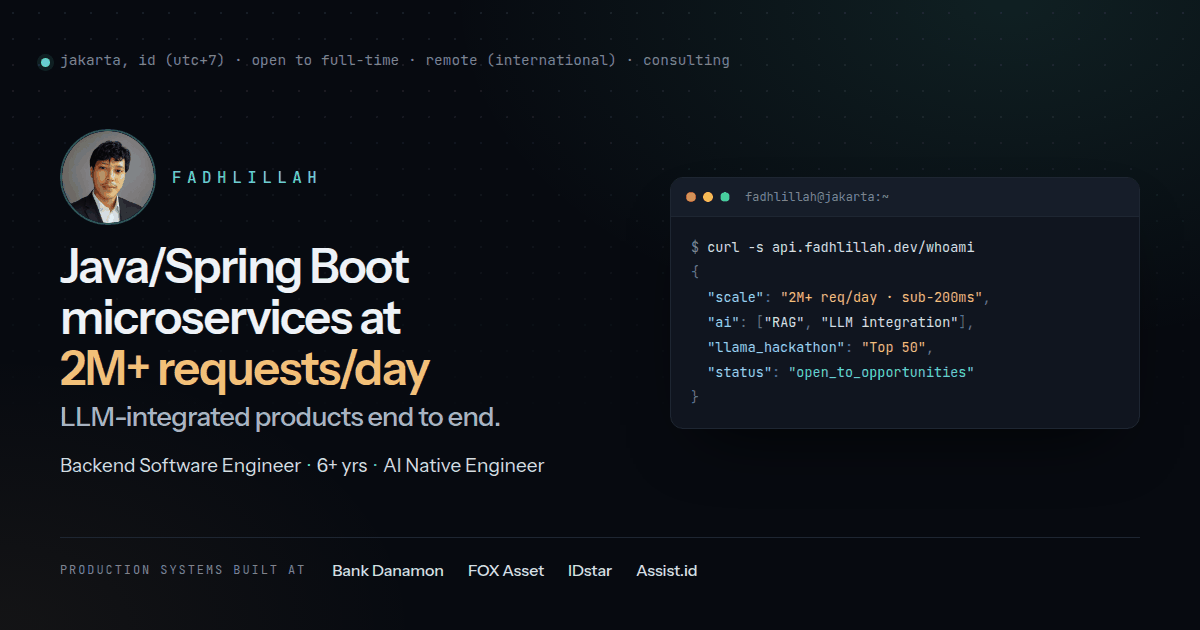
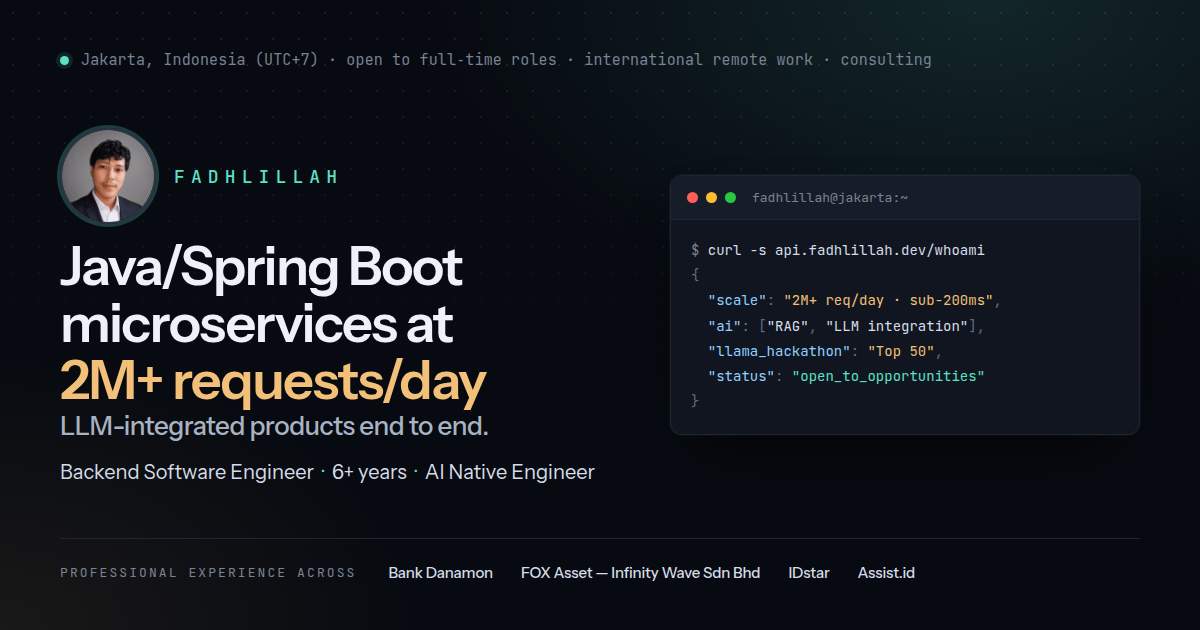
tambah generator kartu Open Graph dan regen og-*.png

diff --git a/scripts/og/cover.html b/scripts/og/cover.html
@@ -1,0 +1,90 @@
+<!doctype html>
+<html lang="en">
+<head>
+<meta charset="utf-8">
+<title>OG cover — home</title>
+<style>
+  /* Rendered at exactly 1200×630 by scripts/og-render.ts. Copy mirrors Hero.svelte verbatim. */
+  @font-face { font-family: "Instrument Sans"; src: url("../../static/assets/fonts/instrument-sans-var.woff2") format("woff2"); font-weight: 400 700; }
+  @font-face { font-family: "JetBrains Mono"; src: url("../../static/assets/fonts/jetbrains-mono-var.woff2") format("woff2"); font-weight: 400 700; }
+
+  :root {
+    --ink-0: #070a10; --ink-2: #10151f; --ink-3: #161d29; --line: #1e2632; --line-2: #2b3648;
+    --head: #eef2f8; --bright: #d5dde8; --text: #a8b3c2; --muted: #788394;
+    --accent: #5ce1c6; --metric: #f2c078; --code-key: #8fd0ff; --code-punct: #5a6d87;
+    --sans: "Instrument Sans", sans-serif; --mono: "JetBrains Mono", monospace;
+  }
+  * { box-sizing: border-box; margin: 0; }
+  html, body { width: 1200px; height: 630px; overflow: hidden; }
+  body {
+    position: relative;
+    font-family: var(--sans);
+    color: var(--text);
+    background:
+      radial-gradient(900px 520px at 82% 0%, rgba(92, 225, 198, 0.13), transparent 62%),
+      radial-gradient(700px 460px at 0% 100%, rgba(242, 192, 120, 0.08), transparent 60%),
+      var(--ink-0);
+    -webkit-font-smoothing: antialiased;
+  }
+  /* dot grid fades out downward so it never sits behind the headline */
+  body::before {
+    content: ""; position: absolute; inset: 0;
+    background-image: radial-gradient(rgba(168, 179, 194, 0.13) 1px, transparent 1px);
+    background-size: 26px 26px;
+    -webkit-mask-image: linear-gradient(to bottom, #000, transparent 72%);
+  }
+  .eyebrow {
+    position: absolute; left: 60px; top: 50px;
+    display: flex; align-items: center; gap: 12px;
+    font-family: var(--mono); font-size: 15px; color: var(--muted); letter-spacing: 0.01em;
+  }
+  .dot { width: 9px; height: 9px; border-radius: 50%; background: var(--accent); box-shadow: 0 0 0 4px rgba(92, 225, 198, 0.12); }
+
+  .who { position: absolute; left: 60px; top: 128px; display: flex; align-items: center; gap: 18px; }
+  .who img { width: 96px; height: 96px; border-radius: 50%; object-fit: cover; border: 2px solid var(--line-2); box-shadow: 0 0 0 3px rgba(92, 225, 198, 0.25); }
+  .name { font-family: var(--mono); font-size: 18px; font-weight: 500; letter-spacing: 0.34em; color: var(--accent); }
+
+  .h1 { position: absolute; left: 60px; top: 238px; font-size: 54px; line-height: 1.06; font-weight: 600; letter-spacing: -0.03em; color: var(--head); }
+  .h1 em { font-style: normal; color: var(--metric); }
+  .sub { position: absolute; left: 60px; top: 410px; font-size: 26px; font-weight: 500; letter-spacing: -0.02em; color: var(--text); }
+  .role { position: absolute; left: 60px; top: 460px; font-size: 20px; color: var(--bright); }
+  .role .sep { color: var(--accent); padding: 0 4px; }
+
+  .term { position: absolute; left: 670px; top: 175px; width: 470px; background: var(--ink-2); border: 1px solid var(--line); border-radius: 12px; overflow: hidden; box-shadow: 0 30px 70px -34px rgba(0, 0, 0, 0.9), 0 0 0 1px rgba(92, 225, 198, 0.06); }
+  .bar { display: flex; align-items: center; gap: 8px; padding: 13px 16px; background: var(--ink-3); border-bottom: 1px solid var(--line); }
+  .bar i { width: 11px; height: 11px; border-radius: 50%; }
+  .bar span { margin-left: 8px; font-family: var(--mono); font-size: 13px; color: var(--muted); }
+  pre { padding: 18px 20px 20px; font-family: var(--mono); font-size: 14px; line-height: 1.8; color: var(--bright); }
+  .tmut { color: var(--muted); } .tk { color: var(--code-key); } .tp { color: var(--code-punct); } .tm { color: var(--metric); } .tc { color: var(--accent); }
+
+  .proof { position: absolute; left: 60px; right: 60px; top: 538px; padding-top: 24px; border-top: 1px solid var(--line); display: flex; align-items: center; gap: 28px; }
+  .proof-label { font-family: var(--mono); font-size: 13px; letter-spacing: 0.16em; text-transform: uppercase; color: var(--muted); margin-right: 4px; }
+  .proof b { font-size: 15px; font-weight: 500; color: var(--bright); letter-spacing: -0.01em; white-space: nowrap; }
+</style>
+</head>
+<body>
+  <p class="eyebrow"><i class="dot"></i>Jakarta, Indonesia (UTC+7) · open to full‑time roles · international remote work · consulting</p>
+
+  <div class="who"><img src="../../static/assets/img/portrait.jpg" alt=""><span class="name">FADHLILLAH</span></div>
+
+  <h1 class="h1">Java/Spring Boot<br>microservices at<br><em>2M+ requests/day</em></h1>
+  <p class="sub">LLM-integrated products end to end.</p>
+  <p class="role">Backend Software Engineer <span class="sep">·</span> 6+ years <span class="sep">·</span> AI Native Engineer</p>
+
+  <div class="term">
+    <div class="bar"><i style="background:#ff5f57"></i><i style="background:#febc2e"></i><i style="background:#28c840"></i><span>fadhlillah@jakarta:~</span></div>
+<pre><span class="tmut">$</span> curl -s api.fadhlillah.dev/whoami
+<span class="tp">{</span>
+  <span class="tk">"scale"</span><span class="tp">:</span> <span class="tm">"2M+ req/day · sub-200ms"</span><span class="tp">,</span>
+  <span class="tk">"ai"</span><span class="tp">:</span> <span class="tp">[</span>"RAG"<span class="tp">,</span> "LLM integration"<span class="tp">],</span>
+  <span class="tk">"llama_hackathon"</span><span class="tp">:</span> <span class="tm">"Top 50"</span><span class="tp">,</span>
+  <span class="tk">"status"</span><span class="tp">:</span> <span class="tc">"open_to_opportunities"</span>
+<span class="tp">}</span></pre>
+  </div>
+
+  <div class="proof">
+    <span class="proof-label">Professional experience across</span>
+    <b>Bank Danamon</b><b>FOX Asset — Infinity Wave Sdn Bhd</b><b>IDstar</b><b>Assist.id</b>
+  </div>
+</body>
+</html>

diff --git a/scripts/og/writeup-hybrid-retrieval.html b/scripts/og/writeup-hybrid-retrieval.html
@@ -1,0 +1,67 @@
+<!doctype html>
+<html lang="en">
+<head>
+<meta charset="utf-8">
+<title>OG cover — writeup: hybrid retrieval</title>
+<style>
+  /* Rendered at exactly 1200×630 by scripts/og-render.ts. Title/deck mirror the writeup route. */
+  @font-face { font-family: "Instrument Sans"; src: url("../../static/assets/fonts/instrument-sans-var.woff2") format("woff2"); font-weight: 400 700; }
+  @font-face { font-family: "JetBrains Mono"; src: url("../../static/assets/fonts/jetbrains-mono-var.woff2") format("woff2"); font-weight: 400 700; }
+
+  :root {
+    --ink-0: #070a10; --ink-2: #10151f; --line: #1e2632; --line-2: #2b3648;
+    --head: #eef2f8; --bright: #d5dde8; --text: #a8b3c2; --muted: #788394;
+    --accent: #5ce1c6; --metric: #f2c078;
+    --sans: "Instrument Sans", sans-serif; --mono: "JetBrains Mono", monospace;
+  }
+  * { box-sizing: border-box; margin: 0; }
+  html, body { width: 1200px; height: 630px; overflow: hidden; }
+  body {
+    position: relative;
+    font-family: var(--sans);
+    color: var(--text);
+    background:
+      radial-gradient(900px 520px at 82% 0%, rgba(92, 225, 198, 0.13), transparent 62%),
+      radial-gradient(700px 460px at 0% 100%, rgba(242, 192, 120, 0.07), transparent 60%),
+      var(--ink-0);
+    -webkit-font-smoothing: antialiased;
+  }
+  body::before {
+    content: ""; position: absolute; inset: 0;
+    background-image: radial-gradient(rgba(168, 179, 194, 0.13) 1px, transparent 1px);
+    background-size: 26px 26px;
+    -webkit-mask-image: linear-gradient(to bottom, #000, transparent 72%);
+  }
+  .eyebrow {
+    position: absolute; left: 64px; right: 64px; top: 56px;
+    display: flex; align-items: center; gap: 16px;
+    font-family: var(--mono); font-size: 15px; letter-spacing: 0.18em; text-transform: uppercase; color: var(--accent);
+  }
+  .eyebrow::after { content: ""; flex: 1; height: 1px; background: linear-gradient(90deg, var(--line-2), transparent); }
+
+  h1 { position: absolute; left: 64px; top: 124px; width: 640px; font-size: 58px; line-height: 1.08; font-weight: 600; letter-spacing: -0.03em; color: var(--head); }
+  .deck { position: absolute; left: 64px; top: 326px; width: 700px; font-size: 24px; line-height: 1.32; letter-spacing: -0.01em; color: var(--text); }
+  .pill { position: absolute; left: 64px; top: 414px; padding: 12px 18px; font-family: var(--mono); font-size: 15px; color: var(--bright); background: var(--ink-2); border: 1px solid var(--line); border-left: 3px solid var(--accent); border-radius: 8px; white-space: nowrap; }
+  .pill .tm { color: var(--metric); font-weight: 600; } .pill .tmut { color: var(--muted); }
+
+  .foot { position: absolute; left: 64px; right: 64px; top: 500px; padding-top: 26px; border-top: 1px solid var(--line); display: flex; align-items: center; gap: 14px; }
+  .foot img { width: 44px; height: 44px; border-radius: 50%; object-fit: cover; border: 1px solid var(--line-2); }
+  .foot b { display: block; font-size: 16px; font-weight: 600; color: var(--head); letter-spacing: -0.01em; }
+  .foot small { display: block; margin-top: 3px; font-family: var(--mono); font-size: 11px; letter-spacing: 0.14em; text-transform: uppercase; color: var(--muted); }
+  .foot .url { margin-left: auto; font-family: var(--mono); font-size: 14px; color: var(--muted); }
+</style>
+</head>
+<body>
+  <p class="eyebrow">Writeup · Retrieval</p>
+
+  <h1>Hybrid retrieval for scanned Indonesian contracts</h1>
+  <p class="deck">Why vector search can miss exact clause references — and how hybrid retrieval handles them.</p>
+  <p class="pill"><span class="tmut">semantic(15) + tfidf(10) →</span> <span class="tm">0.7 / 0.3 + 0.1</span> both-lists bonus</p>
+
+  <div class="foot">
+    <img src="../../static/assets/img/portrait.jpg" alt="">
+    <span><b>Fadhlillah</b><small>Backend · AI Native Engineer</small></span>
+    <span class="url">fadhlillah2.github.io/Bio</span>
+  </div>
+</body>
+</html>

diff --git a/scripts/og-render.ts b/scripts/og-render.ts
@@ -1,0 +1,39 @@
+/**
+ * Renders the Open Graph cards in scripts/og/*.html to static/assets/img/og-*.png
+ * (1200×630) with Chrome headless — the same Chrome lookup cv/build-pdf.ts uses.
+ * Run after the copy in a template changes: bun run og
+ */
+import { resolve } from "node:path";
+import { findChrome, chromePath } from "../cv/build-pdf.ts";
+
+const ROOT = resolve(import.meta.dir, "..");
+const CARDS: Record<string, string> = {
+  cover: "og-cover.png",
+  "writeup-hybrid-retrieval": "og-writeup-retrieval.png",
+};
+const W = 1200, H = 630;
+
+const chrome = findChrome();
+const wsl = chrome.endsWith(".exe");
+const fileUrl = (p: string) => (wsl ? "file:///" + chromePath(p, chrome).replaceAll("\\", "/") : "file://" + p);
+
+let failed = 0;
+for (const [stem, png] of Object.entries(CARDS)) {
+  const html = resolve(ROOT, "scripts/og", `${stem}.html`);
+  const out = resolve(ROOT, "static/assets/img", png);
+  const run = Bun.spawnSync([
+    chrome, "--headless=new", "--disable-gpu", "--hide-scrollbars", "--no-first-run",
+    "--allow-file-access-from-files", // the templates load the self-hosted fonts over file://
+    "--force-device-scale-factor=1", `--window-size=${W},${H}`, "--virtual-time-budget=3000",
+    `--screenshot=${chromePath(out, chrome)}`, fileUrl(html),
+  ], { stdout: "ignore", stderr: "ignore" });
+
+  const bytes = run.exitCode === 0 ? await Bun.file(out).bytes() : new Uint8Array();
+  // PNG IHDR: width at byte 16, height at byte 20 (big-endian)
+  const view = new DataView(bytes.buffer, bytes.byteOffset, bytes.byteLength);
+  const size = bytes.length > 24 ? [view.getUint32(16), view.getUint32(20)] : [0, 0];
+  const ok = size[0] === W && size[1] === H;
+  if (!ok) failed++;
+  console.log(`${ok ? "OK  " : "FAIL"} ${png}: ${size[0]}×${size[1]}, ${bytes.length} bytes (chrome exit ${run.exitCode})`);
+}
+process.exit(failed ? 1 : 0);
